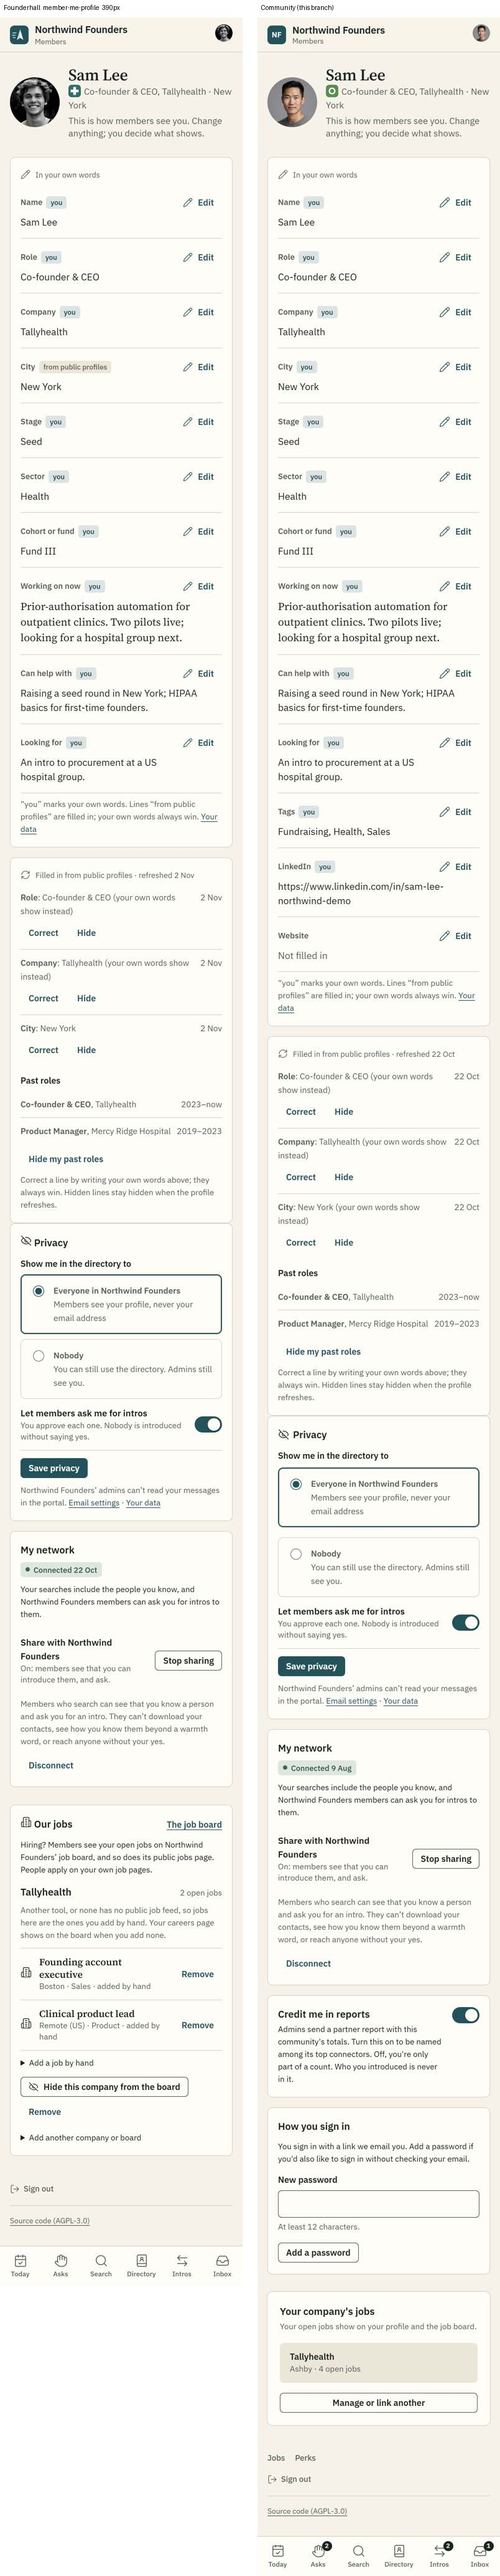
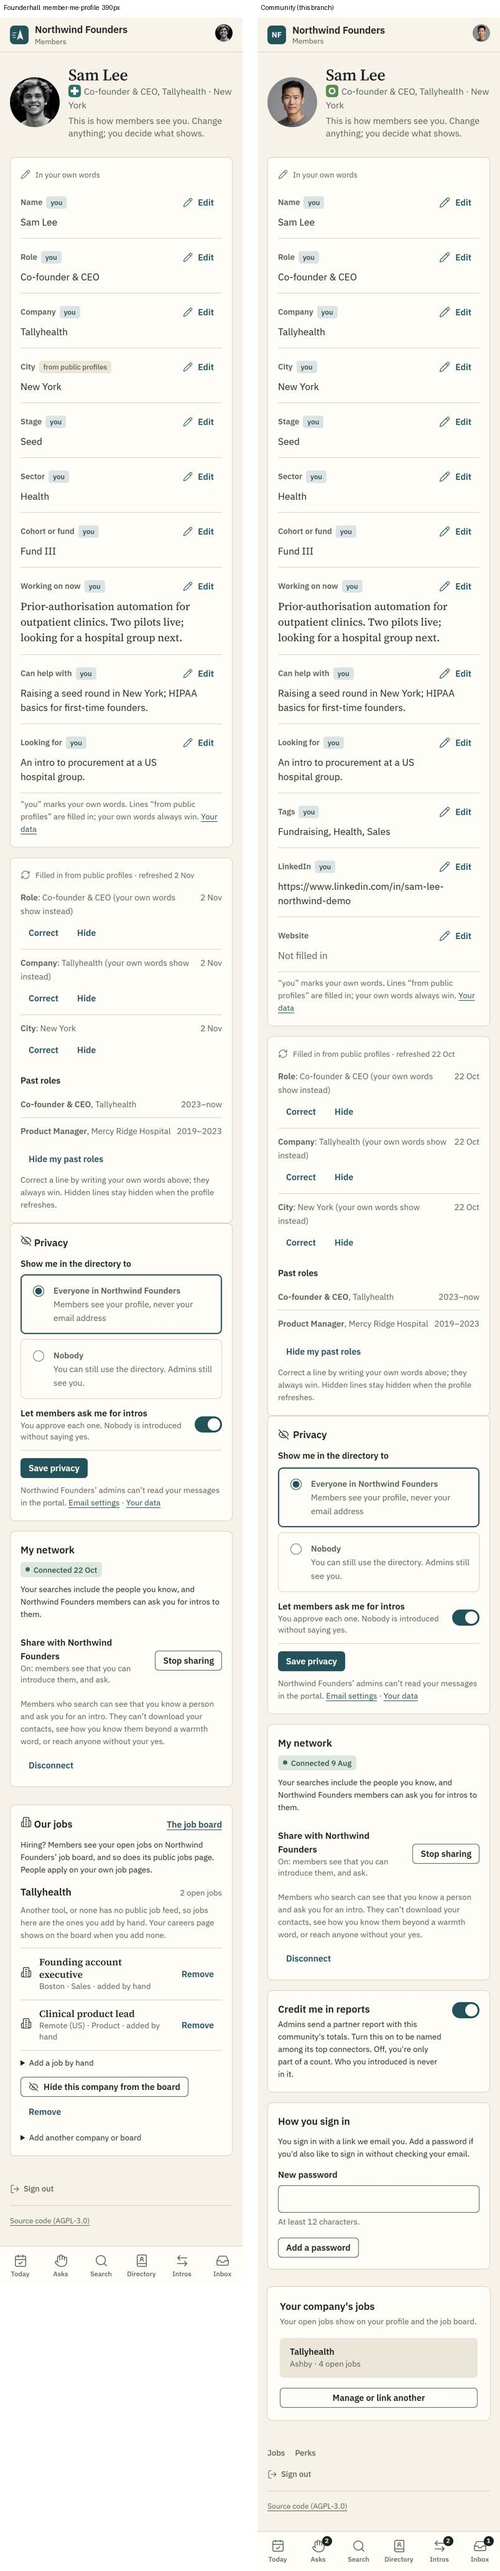
Proof retaken after the repair; re-check passed; changelog card

diff --git a/.ai/features/fh-directory-profile/reports/verification.md b/.ai/features/fh-directory-profile/reports/verification.md
@@ -153,3 +153,11 @@ date is now 11 Nov because of the test edits. Sam has one deletion request and o
 4. **"Your switches" icon**: `SlidersHorizontal` where Founderhall uses Lucide `settings-2` (`your-data-switches.tsx`). Fix: use `Settings2`.
 
 Everything else is community data (a), kept Community function (b) or owned elsewhere (c). The deletion email matches word for word.
+
+## Re-check after the repair (a second verifier, only what failed)
+1. A hidden member's name in the title: PASS (title "Member · Northwind Founders", no name in the HTML; back to the name once listed again).
+2. Old addresses: PASS (308, query kept, for /members, /members/card, /members/data, /members/<id>).
+3. Option-card spacing: PASS (8 px between cards on /me and /me/data, as Founderhall's).
+4. "Your switches" icon: PASS (Lucide settings-2).
+
+Verdict after repair: PASS. The pairs in `pairs/` were retaken after the repair.

diff --git a/.ai/changelog/2026-11-11-fh-directory-profile.md b/.ai/changelog/2026-11-11-fh-directory-profile.md
@@ -1,0 +1,5 @@
+---
+date: 2026-11-11
+kind: changed
+---
+Directory, a member's profile, My profile, Your data and Email settings now look and read like Founderhall's, at Founderhall's addresses, with past roles and Ask to delete.
